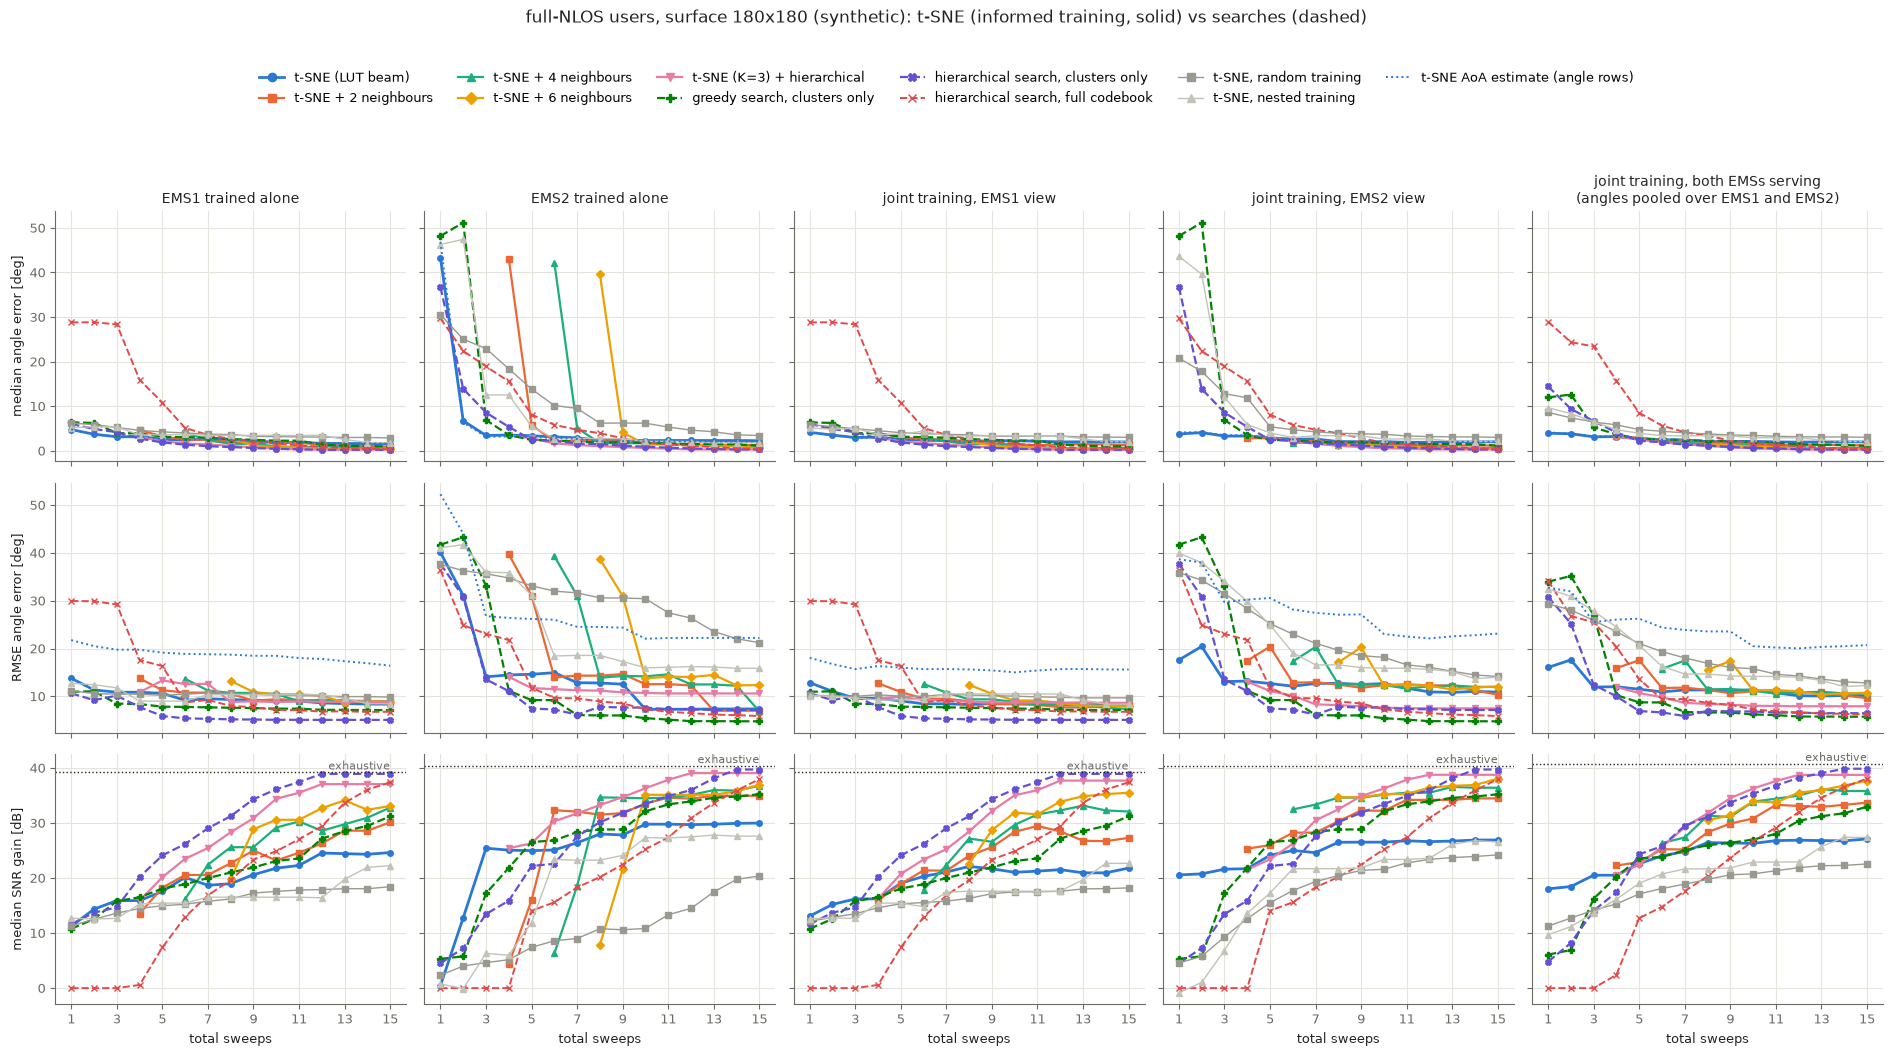
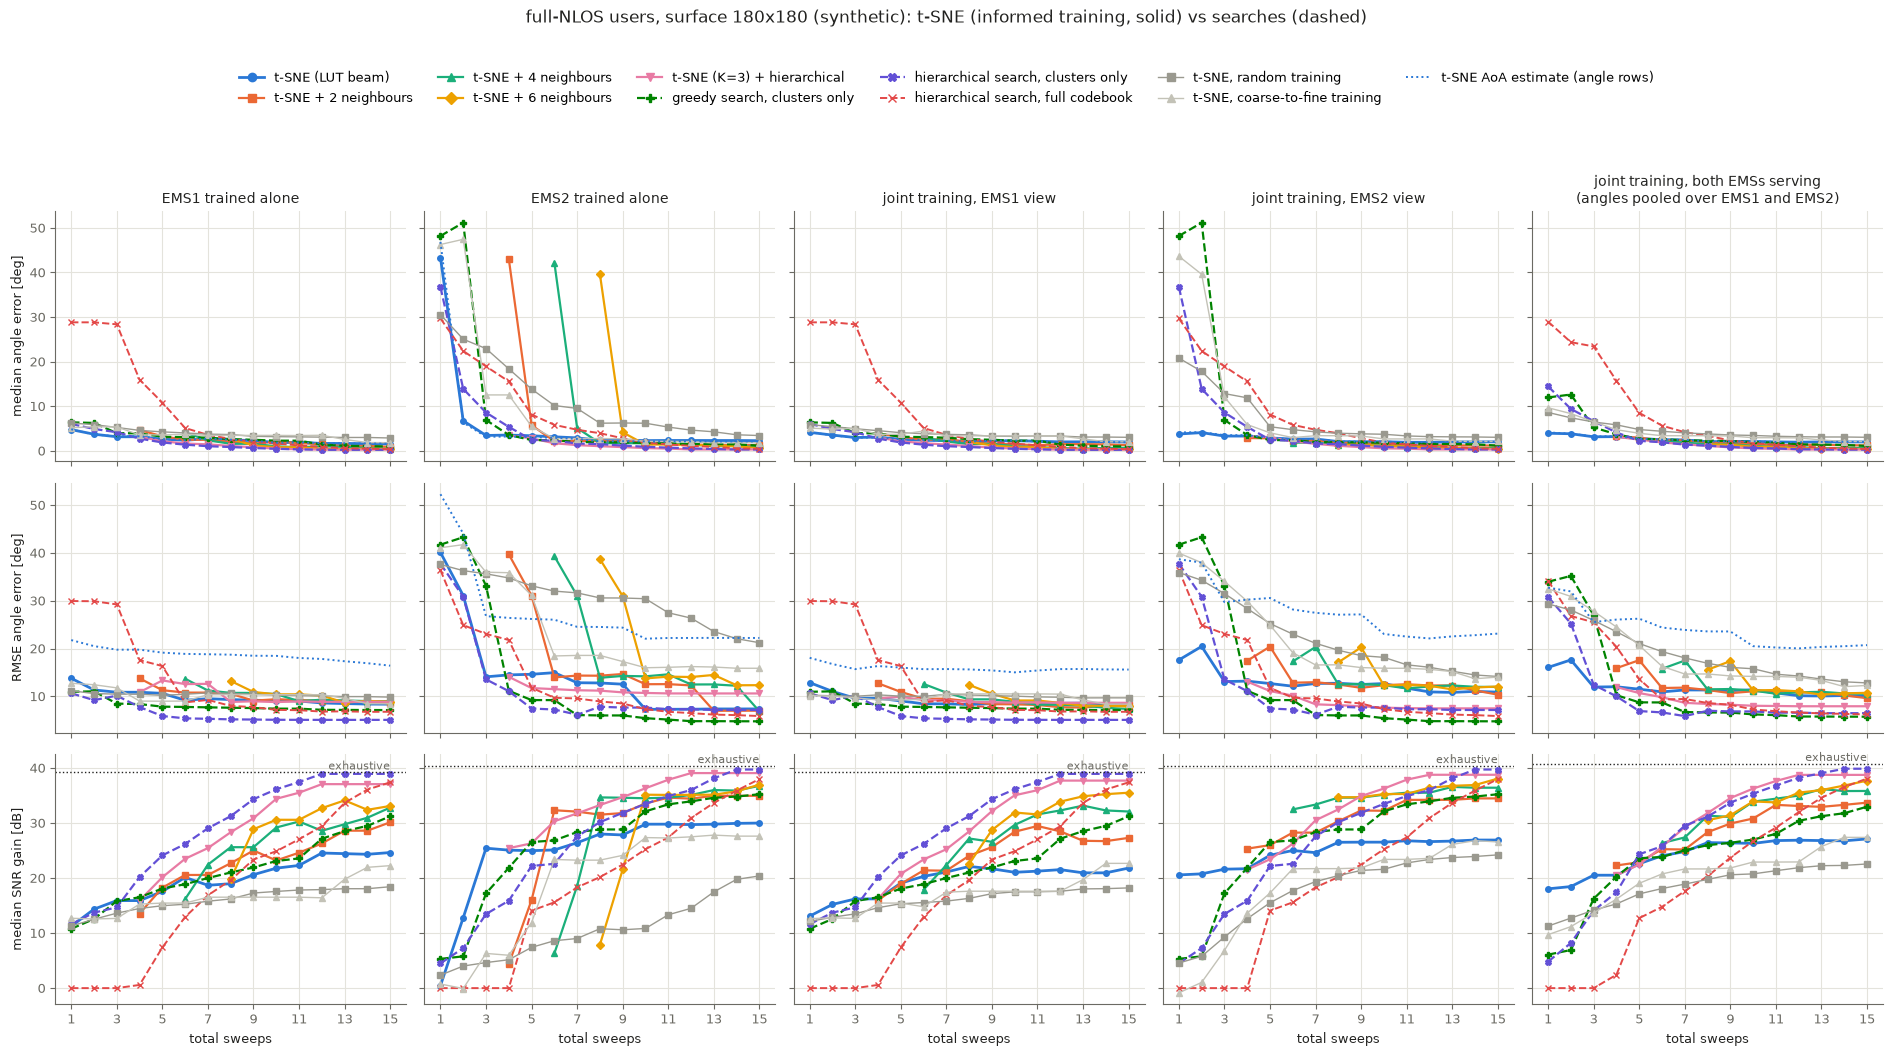
Figures: call the one-loop ever-finer training order coarse-to-fine (nested = K x K grid only)

Changed region(s): [[0.1247, 0.0625, 0.7169, 0.0938], [0.748, 0.0625, 0.8727, 0.0938]]

diff --git a/experiments/plot_deployments.py b/experiments/plot_deployments.py
@@ -4,7 +4,7 @@ One figure per user subset (full NLOS, reflection only) and surface. Rows: media
 pointing error of the chosen beam, median SNR gain. Columns: EMS1 alone, EMS2 alone, joint training
 seen from EMS1, from EMS2, and both EMSs serving together (angles pooled over both EMSs). Solid lines: t-SNE (informed training)
 pure and hybrid; dashed: searches (clusters only, and full-codebook hierarchical); thin grey: pure
-t-SNE with random and nested training; dotted blue: the t-SNE AoA estimate itself.
+t-SNE with random and coarse-to-fine training (one loop over N/2, N, N/4, 3N/4, ...; called "nested" in the CSV); dotted blue: the t-SNE AoA estimate itself.
 Usage: python experiments/plot_deployments.py results_aoa/serving_deployments/est_G60dB
 """
 import csv, os, sys, time, collections
@@ -38,7 +38,7 @@ SERIES = [
     ('hierarchical search, clusters only', '-',      'hierarchical[clusters]',      None, 0, '#6250d6', 'X', '--', 1.6),
     ('hierarchical search, full codebook', '-',      'hierarchical',                None, 0, '#e34948', 'x', '--', 1.4),
     ('t-SNE, random training',           'random',   'tsne',                        None, 0, '#9a998f', 's', '-', 1.0),
-    ('t-SNE, nested training',           'nested',   'tsne',                        None, 0, '#c3c2b7', '^', '-', 1.0),
+    ('t-SNE, coarse-to-fine training',   'nested',   'tsne',                        None, 0, '#c3c2b7', '^', '-', 1.0),
 ]
 COLS = [('EMS1 alone', 'EMS1', 'EMS1 trained alone'), ('EMS2 alone', 'EMS2', 'EMS2 trained alone'),
         ('joint', 'EMS1', 'joint training, EMS1 view'), ('joint', 'EMS2', 'joint training, EMS2 view'),
